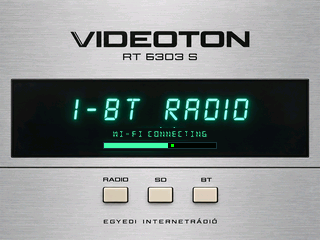
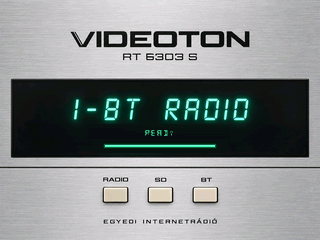
Update corrected R143 skin previews and centered galleries; no source upload

Changed region(s): [[0.3125, 0.525, 0.6875, 0.6417]]

diff --git a/README.md b/README.md
@@ -1,4 +1,4 @@
-# I-BT-Radio — V166-R137 BETA · 2026. október 17.
+# I-BT-Radio — V166-R143 BETA · 2026. október 18.
 
 [English](README.en.md) · [Deutsch](README.de.md)
 
@@ -6,17 +6,21 @@ Az I-BT-Radio a saját, yoRadio-alapú ESP32-WROOM + PSRAM rádióprojektem. A S
 
 **[Funkciólista](docs/Features.md) · [Menü és kezelés](docs/menu/README.md) · [Bekötés](hardware/README.md)**
 
+Az R143 javított Videoton-előnézeteit tettem a galériába. A bootkép, a közvetlen BT-IN váltás és a telefonos lejátszás a készüléken is működött. Ez rövid próbát jelent: az induláskori állomáslista-indexelés watchdog-jelzését és a menü Core0-terhelési csúcsát még vizsgálom. Ez a képes frissítés nem új nyilvános firmware-kiadás.
+
+Korábbi dekóderméréseim (R136–R137):
+
 Az R136-tal ugyanazon 15 mintafájl DAC-próbájában 98,44–99,60%-os PCM-előállítási ütemet mértem a valós időhöz képest. Az Opus Core1-terhelése még 94,1% volt. Az R137-ben a kész 16 bites PCM átadásából vettem ki a fölösleges mintánkénti átalakítást; a fordítás és a hosttesztek sikeresek. Az azonos 15 fájlos R137 DAC-próbában az Opus Core1 87,5%-ra csökkent, a PCM-előállítás 99,40% maradt. Ez fájlonként körülbelül 9 másodperces tiszta CPU-ablakból származó rövid mérés; hallható minőséget és hosszú stabilitást nem igazol. ALAC24-nél 91,3% Core1 és 97,33% PCM adódott, ezt tovább vizsgálom. A biztonsági határok változatlanok.
 
 A rádió → DAC, SD → DAC és korábban a telefon → BT-IN → DAC már működött a készüléken. Az SD → BT a JBL-lel is működött, de a pufferkihagyások és a nagy terhelés javítása még nyitott. **A Wi-Fi-hang → BT tiltott, az EQ hangfeldolgozás kikapcsolt.** Az óra, az ébresztés, a BLE és az időjárás további ellenőrzést igényel. A 800×480-as ESP32-8048S070C panelen az érintéses menüdemót is elindítottam; ez még nem teljes rádióport.
 
 ## Skinek
 
-Frissítve: 2026. október 17. · V166-R137 fejlesztői állapot
+Frissítve: 2026. október 18. · V166-R143 fejlesztői állapot
 
-A teljes galériába tizenegy szkin és a két egyszerű rendszeroldal — az alapnézet és a BT-IN — előnézetét tettem. A képeket középre rendeztem, 320 pixel szélességgel. A régebbi elrendezési terveket, a statikus háttereket és a rajzolókóddal készült előnézeteket külön jelölöm; egyik sem helyettesíti a készülékes kijelzőtesztet.
+A galériában 14 felület előnézetét mutatom, köztük a Videoton lejátszót és bootképet, az alapnézetet és a BT-IN képernyőt. A képek középre rendezve, 320 pixel szélességgel jelennek meg. A korábbi elrendezési terveket, a statikus háttereket és a rajzolókóddal készült előnézeteket külön jelölöm.
 
-A Winamp, a BT-IN, a Service, a Kajon-Jon-bt-vu és az Alapnézet / Basic player forrásának közzététele engedélyezett. Ebben a galériafrissítésben csak képeket és leírásokat teszek közzé.
+Ebben a frissítésben kizárólag előnézeti képeket és leírásokat publikálok; forráskódot és firmware-t nem töltök fel.
 
 <h3 align="center">Winamp / Classic</h3>
 
@@ -103,7 +107,7 @@ A Wi-Fi-hang → BT továbbra is tiltott, az EQ hangfeldolgozás kikapcsolt. A W
 
 <p align="center"><img src="skins/videoton-rt6303s-320x240/player.png" width="320" alt="Videoton RT 6303 S" /></p>
 
-<p align="center"><em>A kipróbált R141 ezüst Videoton-felületét tartottam meg. Itt a gombfeliratok, a LED-ek és a típusfelirat célzott grafikai javítását mutatom, példaadatokkal. Az új rajz készülékes ellenőrzése még hátravan; ez nem firmware-kiadás.<br>Megrendelői kérésre bizonytalan ideig a forráskódot privátként kezelem. Külön kérésre, a tulajdonos engedélyével publikálom.</em></p>
+<p align="center"><em>Az elfogadott eredeti Videoton-felületet tartottam meg, felirat → LED → üres gomb sorrenddel és RT 6303 S típusfelirattal. Az R143-ban a bootképből eltűntek a zöld szövegmaradványok, a betöltősáv tisztán rajzolódik. A BT gomb menü nélkül IN módra váltott, a telefonról folyamatosan szólt a hang. A 36 oldalas, 255 menüsort érintő rövid rajzolási próbában nem tért vissza a veremtúlcsordulás. Az előnézeten példaadatok látszanak; a többi funkció teljes ellenőrzése még folyamatban van.<br>Megrendelői kérésre bizonytalan ideig a forráskódot privátként kezelem. Külön kérésre, a tulajdonos engedélyével publikálom.</em></p>
 
 <p align="center"><img src="skins/videoton-rt6303s-320x240/boot.png" width="320" alt="Bootképernyő – indulás közbeni előnézet" /></p>
 

diff --git a/README.de.md b/README.de.md
@@ -1,8 +1,12 @@
-# I-BT-Radio — V166-R137 BETA · 17. Oktober 2026
+# I-BT-Radio — V166-R143 BETA · 18. Oktober 2026
 
 [Magyar](README.md) · [English](README.en.md)
 
 Ich entwickle mein eigenes yoRadio-basiertes ESP32-WROOM-Radio mit PSRAM und konzentriere mich auf SMALL. [Funktionsstand](docs/Features.md) · [Menü](docs/menu/README.md) · [Anschlüsse](hardware/README.md).
+
+Ich habe die Galerie mit den korrigierten Videoton-Vorschauen aus R143 aktualisiert. Bootbild, direkter BT-IN-Wechsel und Telefonwiedergabe funktionierten am Gerät. Es war ein kurzer Test; die Watchdog-Warnung beim Indizieren der Senderliste und die Core0-Lastspitze im Menü untersuche ich weiter. Dieses Bilderupdate ist keine neue öffentliche Firmware-Version.
+
+Frühere Decoder-Messungen (R136–R137):
 
 Im R136-DAC-Test derselben 15 Beispieldateien erreichte die PCM-Erzeugung 98,44–99,60% der Echtzeit. Opus belastete Core1 noch mit 94,1%. In R137 habe ich die überflüssige Einzelkonvertierung bei der PCM16-Übergabe entfernt. Build und Hosttests sind erfolgreich; im R137-Test derselben 15 Dateien lag Opus Core1 bei 87,5%, die PCM-Erzeugung bei 99,40%. Pro Datei liegt ein sauberes CPU-Fenster von etwa 9 Sekunden vor; das belegt weder Dauerlast noch hörbare Qualität. ALAC24 erreichte 91,3% Core1 und 97,33% PCM und bleibt zu untersuchen. Die Sicherheitsgrenzen bleiben unverändert.
 
@@ -10,11 +14,11 @@ Radio → DAC, SD → DAC und zuvor Telefon → BT-IN → DAC funktionierten am 
 
 ## Skins
 
-Aktualisiert: 17. Oktober 2026 · V166-R137 Entwicklung
+Aktualisiert: 18. Oktober 2026 · V166-R143 Entwicklung
 
-Ich zeige elf Skins und die beiden einfachen Systemansichten: Basisplayer und BT-IN. Die Vorschauen sind zentriert und 320 Pixel breit. Frühere Layout-Vorschauen, statische Hintergründe und mit Zeichencode erzeugte Ansichten kennzeichne ich getrennt. Sie ersetzen keinen Anzeigetest am Gerät.
+Ich zeige Vorschauen von 14 Oberflächen, darunter Videoton-Player und Bootbild, Basisplayer und BT-IN. Die Bilder sind zentriert und 320 Pixel breit. Frühere Layoutstudien, statische Hintergründe und mit Zeichencode erzeugte Vorschauen kennzeichne ich getrennt.
 
-Winamp, BT-IN, Service, Kajon-Jon-bt-vu und Alapnézet / Basic player sind Ausnahmen: Ihr Quellcode darf veröffentlicht werden. Dieses Galerie-Update enthält nur Bilder und Beschreibungen.
+In diesem Update veröffentliche ich ausschließlich Vorschaubilder und Beschreibungen, keinen Quellcode und keine Firmware.
 
 <h3 align="center">Winamp / Classic</h3>
 
@@ -101,7 +105,7 @@ WLAN-Audio → BT bleibt gesperrt, die EQ-Signalverarbeitung abgeschaltet. Die W
 
 <p align="center"><img src="skins/videoton-rt6303s-320x240/player.png" width="320" alt="Videoton RT 6303 S" /></p>
 
-<p align="center"><em>Ich habe das auf R141 getestete silberne Videoton-Layout beibehalten. Die Vorschau zeigt gezielte Korrekturen der Tastenbeschriftungen, LEDs und Modellbezeichnung mit Beispieldaten. Die neue Grafik ist noch am Gerät zu prüfen; dies ist keine Firmware-Veröffentlichung.<br>Auf Wunsch des Auftraggebers halte ich den Quellcode auf unbestimmte Zeit privat. Auf gesonderte Anfrage veröffentliche ich ihn mit Zustimmung des Eigentümers.</em></p>
+<p align="center"><em>Ich habe das freigegebene originale Videoton-Layout mit der Reihenfolge Beschriftung → LED → unbeschriftete Taste und dem Schriftzug RT 6303 S beibehalten. R143 entfernt die grünen Textreste im Bootbild und zeichnet den Ladebalken sauber. Die BT-Taste wechselte ohne Menü direkt in den IN-Modus; die Audiowiedergabe vom Telefon lief durchgehend. Im kurzen Zeichentest mit 36 Menüseiten und 255 Zeilen trat kein weiterer Stacküberlauf auf. Die Vorschau zeigt Beispieldaten; die vollständige Prüfung der übrigen Funktionen läuft weiter.<br>Auf Wunsch des Auftraggebers halte ich den Quellcode auf unbestimmte Zeit privat. Auf gesonderte Anfrage veröffentliche ich ihn mit Zustimmung des Eigentümers.</em></p>
 
 <p align="center"><img src="skins/videoton-rt6303s-320x240/boot.png" width="320" alt="Bootbild – Startvorschau" /></p>
 

diff --git a/README.en.md b/README.en.md
@@ -1,8 +1,12 @@
-# I-BT-Radio — V166-R137 BETA · 17 October 2026
+# I-BT-Radio — V166-R143 BETA · 18 October 2026
 
 [Magyar](README.md) · [Deutsch](README.de.md)
 
 I am building my own yoRadio-based ESP32-WROOM + PSRAM radio, focusing on SMALL. [Feature status](docs/Features.md) · [Menu](docs/menu/README.md) · [Wiring](hardware/README.md).
+
+I updated the gallery with the corrected R143 Videoton previews. The boot image, direct BT-IN switch and phone playback worked on the device. This was a short check: I am still investigating the startup playlist-index watchdog warning and the menu Core0 load peak. This image update is not a new public firmware release.
+
+Earlier decoder measurements (R136–R137):
 
 In the R136 DAC test of the same 15 sample files, PCM production reached 98.44–99.60% of real time. Opus Core1 load was still 94.1%. In R137 I removed redundant per-sample conversion from the signed PCM16 handoff. Build and host checks passed; the R137 test of the same 15 files measured Opus Core1 at 87.5% and PCM production at 99.40%. Each file has one clean approximately 9-second CPU window, so this does not prove sustained load or audible quality. ALAC24 measured 91.3% Core1 and 97.33% PCM and needs further investigation. Safety limits are unchanged.
 
@@ -10,11 +14,11 @@ Radio → DAC, SD → DAC and earlier phone → BT-IN → DAC playback worked on
 
 ## Skins
 
-Updated: 17 October 2026 · V166-R137 development
+Updated: 18 October 2026 · V166-R143 development
 
-I have included eleven skins and the two simple system screens: the basic player and BT-IN. Previews are centered at 320 pixels wide. I distinguish older layout previews, static backgrounds and previews rendered from drawing code. These images do not replace device display testing.
+I show previews of 14 interfaces, including the Videoton player and boot image, the basic player and BT-IN screen. Images are centered at 320 pixels wide. Older layout studies, static backgrounds and drawing-code previews are labelled separately.
 
-Winamp, BT-IN, Service, Kajon-Jon-bt-vu and Alapnézet / Basic player are exceptions: their source may be published. This gallery update publishes images and descriptions only.
+This update publishes preview images and descriptions only. I am not uploading source code or firmware.
 
 <h3 align="center">Winamp / Classic</h3>
 
@@ -101,7 +105,7 @@ Wi-Fi audio → BT remains disabled, as does EQ audio processing. The Winamp EQ 
 
 <p align="center"><img src="skins/videoton-rt6303s-320x240/player.png" width="320" alt="Videoton RT 6303 S" /></p>
 
-<p align="center"><em>I retained the silver Videoton layout tested on R141. This preview shows targeted button-label, LED and model-label corrections with example data. The revised graphics still need a device check; this is not a firmware release.<br>At the client's request, I keep the source code private for an indefinite period. I publish it on separate request with the owner's permission.</em></p>
+<p align="center"><em>I kept the approved original Videoton layout, with label → LED → blank button order and RT 6303 S lettering. R143 removes the green text remnants from the boot image and redraws the loading bar cleanly. The BT button switched directly to IN mode without opening a menu, and phone audio played continuously. The short rendering test covered 36 menu pages and 255 rows without another stack overflow. The preview uses example data; full validation of the remaining functions is ongoing.<br>At the client's request, I keep the source code private for an indefinite period. I publish it on separate request with the owner's permission.</em></p>
 
 <p align="center"><img src="skins/videoton-rt6303s-320x240/boot.png" width="320" alt="Boot screen – startup preview" /></p>
 

diff --git a/skins/README.md b/skins/README.md
@@ -1,10 +1,10 @@
 # Skinek
 
-Frissítve: 2026. október 17. · V166-R137 fejlesztői állapot
+Frissítve: 2026. október 18. · V166-R143 fejlesztői állapot
 
-A teljes galériába tizenegy szkin és a két egyszerű rendszeroldal — az alapnézet és a BT-IN — előnézetét tettem. A képeket középre rendeztem, 320 pixel szélességgel. A régebbi elrendezési terveket, a statikus háttereket és a rajzolókóddal készült előnézeteket külön jelölöm; egyik sem helyettesíti a készülékes kijelzőtesztet.
+A galériában 14 felület előnézetét mutatom, köztük a Videoton lejátszót és bootképet, az alapnézetet és a BT-IN képernyőt. A képek középre rendezve, 320 pixel szélességgel jelennek meg. A korábbi elrendezési terveket, a statikus háttereket és a rajzolókóddal készült előnézeteket külön jelölöm.
 
-A Winamp, a BT-IN, a Service, a Kajon-Jon-bt-vu és az Alapnézet / Basic player forrásának közzététele engedélyezett. Ebben a galériafrissítésben csak képeket és leírásokat teszek közzé.
+Ebben a frissítésben kizárólag előnézeti képeket és leírásokat publikálok; forráskódot és firmware-t nem töltök fel.
 
 <h3 align="center">Winamp / Classic</h3>
 
@@ -90,7 +90,7 @@ A Wi-Fi-hang → BT továbbra is tiltott, az EQ hangfeldolgozás kikapcsolt. A W
 
 <p align="center"><img src="videoton-rt6303s-320x240/player.png" width="320" alt="Videoton RT 6303 S" /></p>
 
-<p align="center"><em>A kipróbált R141 ezüst Videoton-felületét tartottam meg. Itt a gombfeliratok, a LED-ek és a típusfelirat célzott grafikai javítását mutatom, példaadatokkal. Az új rajz készülékes ellenőrzése még hátravan; ez nem firmware-kiadás.<br>Megrendelői kérésre bizonytalan ideig a forráskódot privátként kezelem. Külön kérésre, a tulajdonos engedélyével publikálom.</em></p>
+<p align="center"><em>Az elfogadott eredeti Videoton-felületet tartottam meg, felirat → LED → üres gomb sorrenddel és RT 6303 S típusfelirattal. Az R143-ban a bootképből eltűntek a zöld szövegmaradványok, a betöltősáv tisztán rajzolódik. A BT gomb menü nélkül IN módra váltott, a telefonról folyamatosan szólt a hang. A 36 oldalas, 255 menüsort érintő rövid rajzolási próbában nem tért vissza a veremtúlcsordulás. Az előnézeten példaadatok látszanak; a többi funkció teljes ellenőrzése még folyamatban van.<br>Megrendelői kérésre bizonytalan ideig a forráskódot privátként kezelem. Külön kérésre, a tulajdonos engedélyével publikálom.</em></p>
 
 <p align="center"><img src="videoton-rt6303s-320x240/boot.png" width="320" alt="Bootképernyő – indulás közbeni előnézet" /></p>
 

diff --git a/skins/README.de.md b/skins/README.de.md
@@ -1,10 +1,10 @@
 # Skins
 
-Aktualisiert: 17. Oktober 2026 · V166-R137 Entwicklung
+Aktualisiert: 18. Oktober 2026 · V166-R143 Entwicklung
 
-Ich zeige elf Skins und die beiden einfachen Systemansichten: Basisplayer und BT-IN. Die Vorschauen sind zentriert und 320 Pixel breit. Frühere Layout-Vorschauen, statische Hintergründe und mit Zeichencode erzeugte Ansichten kennzeichne ich getrennt. Sie ersetzen keinen Anzeigetest am Gerät.
+Ich zeige Vorschauen von 14 Oberflächen, darunter Videoton-Player und Bootbild, Basisplayer und BT-IN. Die Bilder sind zentriert und 320 Pixel breit. Frühere Layoutstudien, statische Hintergründe und mit Zeichencode erzeugte Vorschauen kennzeichne ich getrennt.
 
-Winamp, BT-IN, Service, Kajon-Jon-bt-vu und Alapnézet / Basic player sind Ausnahmen: Ihr Quellcode darf veröffentlicht werden. Dieses Galerie-Update enthält nur Bilder und Beschreibungen.
+In diesem Update veröffentliche ich ausschließlich Vorschaubilder und Beschreibungen, keinen Quellcode und keine Firmware.
 
 <h3 align="center">Winamp / Classic</h3>
 
@@ -90,7 +90,7 @@ WLAN-Audio → BT bleibt gesperrt, die EQ-Signalverarbeitung abgeschaltet. Die W
 
 <p align="center"><img src="videoton-rt6303s-320x240/player.png" width="320" alt="Videoton RT 6303 S" /></p>
 
-<p align="center"><em>Ich habe das auf R141 getestete silberne Videoton-Layout beibehalten. Die Vorschau zeigt gezielte Korrekturen der Tastenbeschriftungen, LEDs und Modellbezeichnung mit Beispieldaten. Die neue Grafik ist noch am Gerät zu prüfen; dies ist keine Firmware-Veröffentlichung.<br>Auf Wunsch des Auftraggebers halte ich den Quellcode auf unbestimmte Zeit privat. Auf gesonderte Anfrage veröffentliche ich ihn mit Zustimmung des Eigentümers.</em></p>
+<p align="center"><em>Ich habe das freigegebene originale Videoton-Layout mit der Reihenfolge Beschriftung → LED → unbeschriftete Taste und dem Schriftzug RT 6303 S beibehalten. R143 entfernt die grünen Textreste im Bootbild und zeichnet den Ladebalken sauber. Die BT-Taste wechselte ohne Menü direkt in den IN-Modus; die Audiowiedergabe vom Telefon lief durchgehend. Im kurzen Zeichentest mit 36 Menüseiten und 255 Zeilen trat kein weiterer Stacküberlauf auf. Die Vorschau zeigt Beispieldaten; die vollständige Prüfung der übrigen Funktionen läuft weiter.<br>Auf Wunsch des Auftraggebers halte ich den Quellcode auf unbestimmte Zeit privat. Auf gesonderte Anfrage veröffentliche ich ihn mit Zustimmung des Eigentümers.</em></p>
 
 <p align="center"><img src="videoton-rt6303s-320x240/boot.png" width="320" alt="Bootbild – Startvorschau" /></p>
 

diff --git a/skins/README.en.md b/skins/README.en.md
@@ -1,10 +1,10 @@
 # Skins
 
-Updated: 17 October 2026 · V166-R137 development
+Updated: 18 October 2026 · V166-R143 development
 
-I have included eleven skins and the two simple system screens: the basic player and BT-IN. Previews are centered at 320 pixels wide. I distinguish older layout previews, static backgrounds and previews rendered from drawing code. These images do not replace device display testing.
+I show previews of 14 interfaces, including the Videoton player and boot image, the basic player and BT-IN screen. Images are centered at 320 pixels wide. Older layout studies, static backgrounds and drawing-code previews are labelled separately.
 
-Winamp, BT-IN, Service, Kajon-Jon-bt-vu and Alapnézet / Basic player are exceptions: their source may be published. This gallery update publishes images and descriptions only.
+This update publishes preview images and descriptions only. I am not uploading source code or firmware.
 
 <h3 align="center">Winamp / Classic</h3>
 
@@ -90,7 +90,7 @@ Wi-Fi audio → BT remains disabled, as does EQ audio processing. The Winamp EQ 
 
 <p align="center"><img src="videoton-rt6303s-320x240/player.png" width="320" alt="Videoton RT 6303 S" /></p>
 
-<p align="center"><em>I retained the silver Videoton layout tested on R141. This preview shows targeted button-label, LED and model-label corrections with example data. The revised graphics still need a device check; this is not a firmware release.<br>At the client's request, I keep the source code private for an indefinite period. I publish it on separate request with the owner's permission.</em></p>
+<p align="center"><em>I kept the approved original Videoton layout, with label → LED → blank button order and RT 6303 S lettering. R143 removes the green text remnants from the boot image and redraws the loading bar cleanly. The BT button switched directly to IN mode without opening a menu, and phone audio played continuously. The short rendering test covered 36 menu pages and 255 rows without another stack overflow. The preview uses example data; full validation of the remaining functions is ongoing.<br>At the client's request, I keep the source code private for an indefinite period. I publish it on separate request with the owner's permission.</em></p>
 
 <p align="center"><img src="videoton-rt6303s-320x240/boot.png" width="320" alt="Boot screen – startup preview" /></p>
 

diff --git a/skins/videoton-rt6303s-320x240/README.de.md b/skins/videoton-rt6303s-320x240/README.de.md
@@ -1,6 +1,6 @@
 # Videoton RT 6303 S
 
-Ich habe das auf R141 getestete silberne Videoton-Layout beibehalten. Die Vorschau zeigt gezielte Korrekturen der Tastenbeschriftungen, LEDs und Modellbezeichnung mit Beispieldaten. Die neue Grafik ist noch am Gerät zu prüfen; dies ist keine Firmware-Veröffentlichung.
+Ich habe das freigegebene originale Videoton-Layout mit der Reihenfolge Beschriftung → LED → unbeschriftete Taste und dem Schriftzug RT 6303 S beibehalten. R143 entfernt die grünen Textreste im Bootbild und zeichnet den Ladebalken sauber. Die BT-Taste wechselte ohne Menü direkt in den IN-Modus; die Audiowiedergabe vom Telefon lief durchgehend. Im kurzen Zeichentest mit 36 Menüseiten und 255 Zeilen trat kein weiterer Stacküberlauf auf. Die Vorschau zeigt Beispieldaten; die vollständige Prüfung der übrigen Funktionen läuft weiter.
 
 <p align="center"><img src="player.png" width="320" alt="Videoton RT 6303 S" /></p>
 

diff --git a/skins/videoton-rt6303s-320x240/README.md b/skins/videoton-rt6303s-320x240/README.md
@@ -1,6 +1,6 @@
 # Videoton RT 6303 S
 
-A kipróbált R141 ezüst Videoton-felületét tartottam meg. Itt a gombfeliratok, a LED-ek és a típusfelirat célzott grafikai javítását mutatom, példaadatokkal. Az új rajz készülékes ellenőrzése még hátravan; ez nem firmware-kiadás.
+Az elfogadott eredeti Videoton-felületet tartottam meg, felirat → LED → üres gomb sorrenddel és RT 6303 S típusfelirattal. Az R143-ban a bootképből eltűntek a zöld szövegmaradványok, a betöltősáv tisztán rajzolódik. A BT gomb menü nélkül IN módra váltott, a telefonról folyamatosan szólt a hang. A 36 oldalas, 255 menüsort érintő rövid rajzolási próbában nem tért vissza a veremtúlcsordulás. Az előnézeten példaadatok látszanak; a többi funkció teljes ellenőrzése még folyamatban van.
 
 <p align="center"><img src="player.png" width="320" alt="Videoton RT 6303 S" /></p>
 

diff --git a/skins/videoton-rt6303s-320x240/README.en.md b/skins/videoton-rt6303s-320x240/README.en.md
@@ -1,6 +1,6 @@
 # Videoton RT 6303 S
 
-I retained the silver Videoton layout tested on R141. This preview shows targeted button-label, LED and model-label corrections with example data. The revised graphics still need a device check; this is not a firmware release.
+I kept the approved original Videoton layout, with label → LED → blank button order and RT 6303 S lettering. R143 removes the green text remnants from the boot image and redraws the loading bar cleanly. The BT button switched directly to IN mode without opening a menu, and phone audio played continuously. The short rendering test covered 36 menu pages and 255 rows without another stack overflow. The preview uses example data; full validation of the remaining functions is ongoing.
 
 <p align="center"><img src="player.png" width="320" alt="Videoton RT 6303 S" /></p>
 
